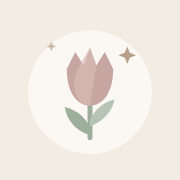
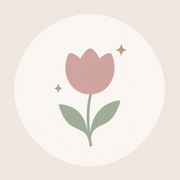
換成 Yui 的鬱金香圖示；分頁小圖示改用 🌷 emoji
Claude-Session: https://claude.ai/code/session_01BmaM13F6z9XbsMpZYFtLcE

diff --git a/AGENTS.md b/AGENTS.md
@@ -4,7 +4,7 @@
 
 ## 開始改之前
 1. 先讀 `STYLE.md`（版面風格）、`COACH.md`（教練貼上格式）。
-2. 整個 App 只有一個檔案：`index.html`（圖示檔 `icon.svg`、`icon-192.png`、`icon-512.png`、`apple-touch-icon.png`、`manifest.webmanifest` 另外放；Yui 選的是鬱金香圖示）。**不要拆成多個檔案、不要改用框架（React、Vue、Tailwind 等）**。
+2. 整個 App 只有一個檔案：`index.html`（圖示檔 `icon.svg`、`icon-192.png`、`icon-512.png`、`apple-touch-icon.png`、`manifest.webmanifest` 另外放；主畫面圖示是 Yui 用 GPT 畫的鬱金香；瀏覽器分頁小圖示 `icon.svg` 是 🌷 emoji）。**不要拆成多個檔案、不要改用框架（React、Vue、Tailwind 等）**。
 3. 交付時給 Yui「完整的檔案」，不要只給片段或 diff。
 
 ## 一定要保留的東西
